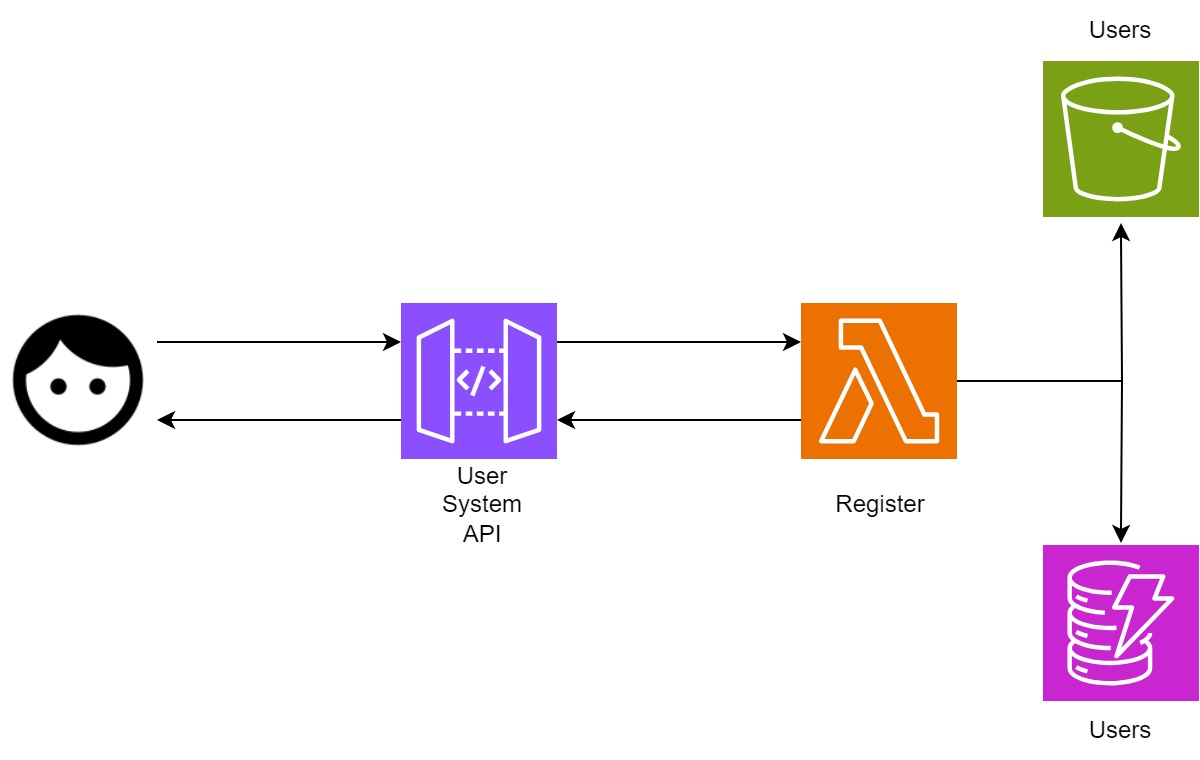
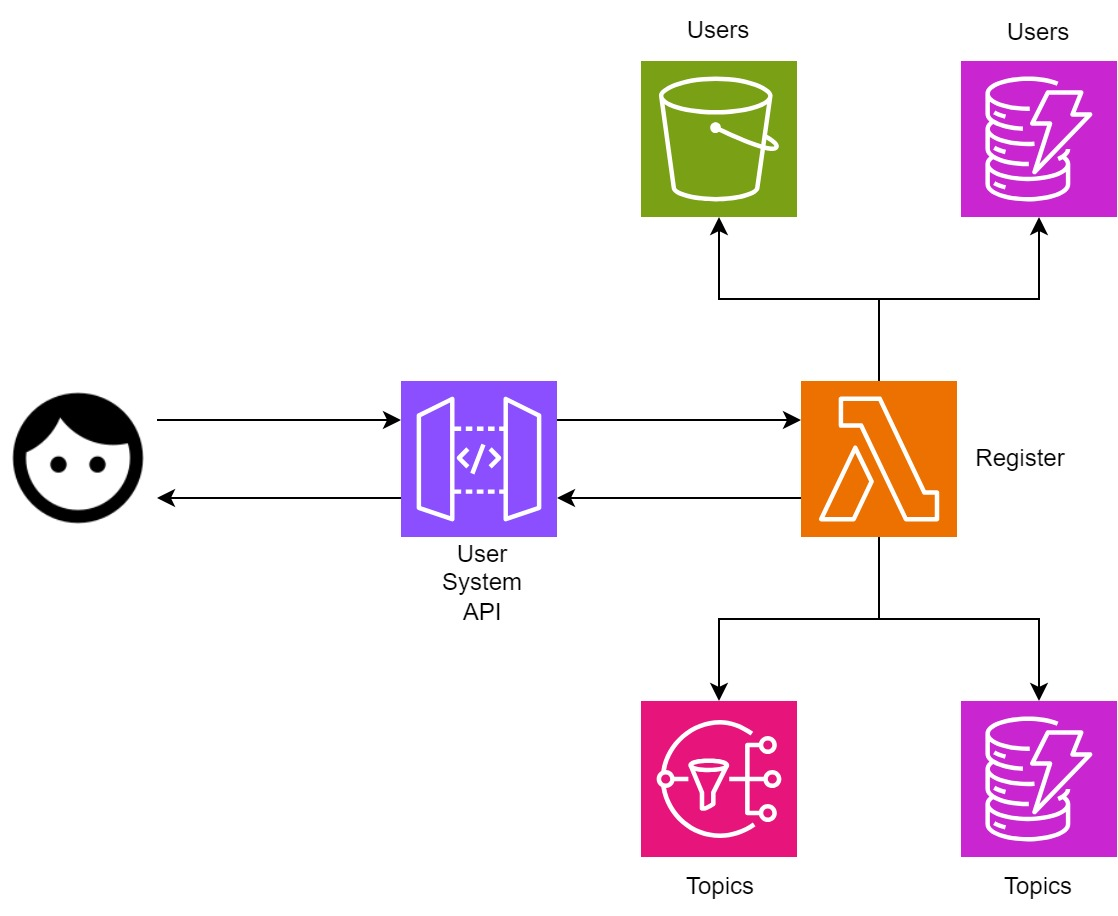
update README.md

diff --git a/FinalProject/README.md b/FinalProject/README.md
@@ -71,7 +71,8 @@ It is described here according to the following parts:
 * POST requests goes through **API Gateway**
 * Lambda create user ID and
     * Inserts user details into `Users` table in **DynamoDB**
-    * Creates an empty folder in the Users bucket in **S3**. The name of the folder is the `User ID` 
+    * Creates an empty folder in the Users bucket in **S3**. The name of the folder is the `User ID`
+    * Creates an **SNS Topic** for each user and saves his `user ID` next to the `Topic ARN` in the DB. This will be discussed later regarding subscriptions.
 
 ![](./readme-pictures/00%20-%20register.jpg)
 
